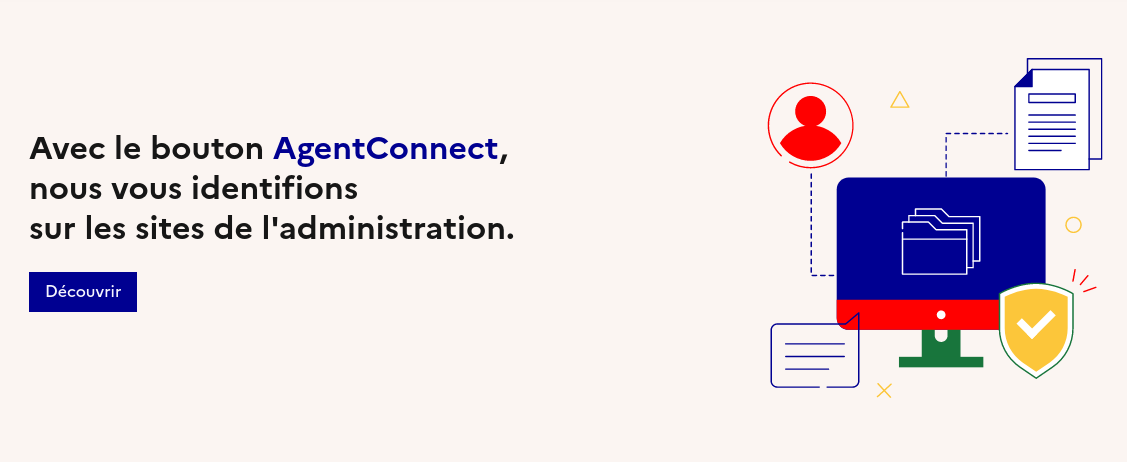
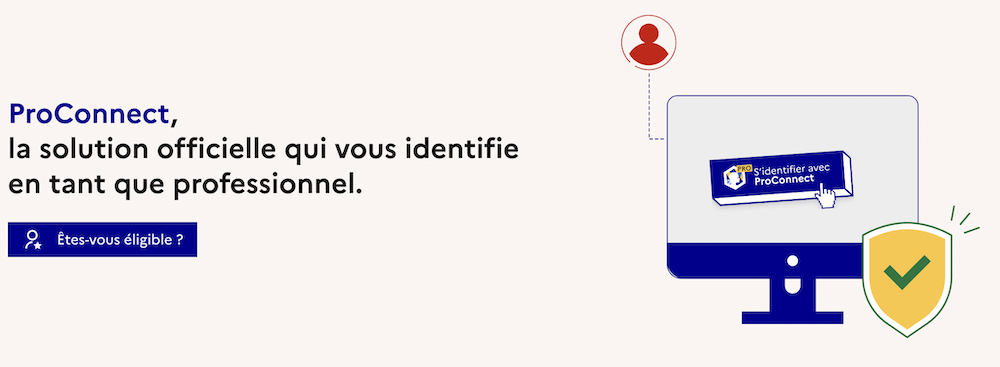
last fixes for switch to proconnect

diff --git a/doc_fs/troubleshooting-fs.md b/doc_fs/troubleshooting-fs.md
@@ -3,4 +3,4 @@ Le document ci-dessous récapitule les différents codes d'erreur que vous pourr
 
 Code erreur | Marche à suivre
 -- | --
-`Y030111` | si vous appelez bien le `end_session_endpoint` avec les paramètres indiqués [ici](./implementation_technique.md), alors il est probable que la `post_logout_redirect_uri` ne correspond pas à celle renseignée dans votre formulaire Démarches Simplifiées. Attention, cette URL doit être encodée pour être passée en query parameter, correspondre exactement à celle communiquée à AgentConnect, et est sensible à la présence ou non du `/` final
+`Y030111` | si vous appelez bien le `end_session_endpoint` avec les paramètres indiqués [ici](./implementation_technique.md), alors il est probable que la `post_logout_redirect_uri` ne correspond pas à celle renseignée dans votre formulaire Démarches Simplifiées. Attention, cette URL doit être encodée pour être passée en query parameter, correspondre exactement à celle communiquée à ProConnect, et est sensible à la présence ou non du `/` final

diff --git a/doc_fi/configuration.md b/doc_fi/configuration.md
@@ -14,7 +14,7 @@ La Discovery URL est une URL **publique** fournie par le FI qui expose un ensemb
 Cette URL doit être conservée pour être envoyée à ProConnect par le FI une fois la configuration faite.
 
 ## Créer un client
-Commencez par créer un client OIDC pour ProConnect. Vous pouvez choisir comme `client_id` "agentconnect" par exemple. Pour le `client_secret`, vous pouvez le générer de votre côté ou à l'aide d'outils en ligne comme [randomgenerate.io](https://randomgenerate.io/random-string-generator).
+Commencez par créer un client OIDC pour ProConnect. Vous pouvez choisir comme `client_id` "proconnect" par exemple. Pour le `client_secret`, vous pouvez le générer de votre côté ou à l'aide d'outils en ligne comme [randomgenerate.io](https://randomgenerate.io/random-string-generator).
 Ces deux valeurs doivent être conservées de votre côté pour être envoyées à ProConnect une fois la configuration faite.
 
 La `redirect_uri` (ou "adresse de redirection de connexion") à indiquer est la suivante :

diff --git a/README.md b/README.md
@@ -8,11 +8,11 @@
 ## 🗺 Liens relatifs
 
 
-🧭 [https://agentconnect.gouv.fr/](https://agentconnect.gouv.fr/)
+🧭 [https://www.proconnect.gouv.fr/](https://www.proconnect.gouv.fr/)
 
 🧑🏫 [Présentation de la solution](https://pad.numerique.gouv.fr/p/4finbsfnw#/)
 
-📊 [Statistiques d'utilisation](https://agentconnect.gouv.fr/stats)
+📊 [Statistiques d'utilisation](https://www.proconnect.gouv.fr/stats)
 
 
 ## 📚 Documentation technique

diff --git a/doc_fs/bouton_proconnect.md b/doc_fs/bouton_proconnect.md
@@ -71,7 +71,7 @@ Vous pouvez utiliser l’intégration suivante :
     </form>
     <p>
         <a
-            href="https://agentconnect.gouv.fr/"
+            href="https://www.proconnect.gouv.fr/"
             target="_blank"
             rel="noopener noreferrer"
             title="Qu’est-ce que ProConnect ? - nouvelle fenêtre"

diff --git a/resources/glossaire.md b/resources/glossaire.md
@@ -66,7 +66,7 @@ Exemple :
     "aud":"895fae591ccae777094931e269e46447",
     "exp":1412953984,
     "iat":1412950384,
-    "iss":"http://Agentconnect.gouv.fr",
+    "iss":"http://agentconnect.gouv.fr",
     "sub":"YWxhY3JpdMOp",
     "idp":"AC",
     "nonce":"12344354597459"
